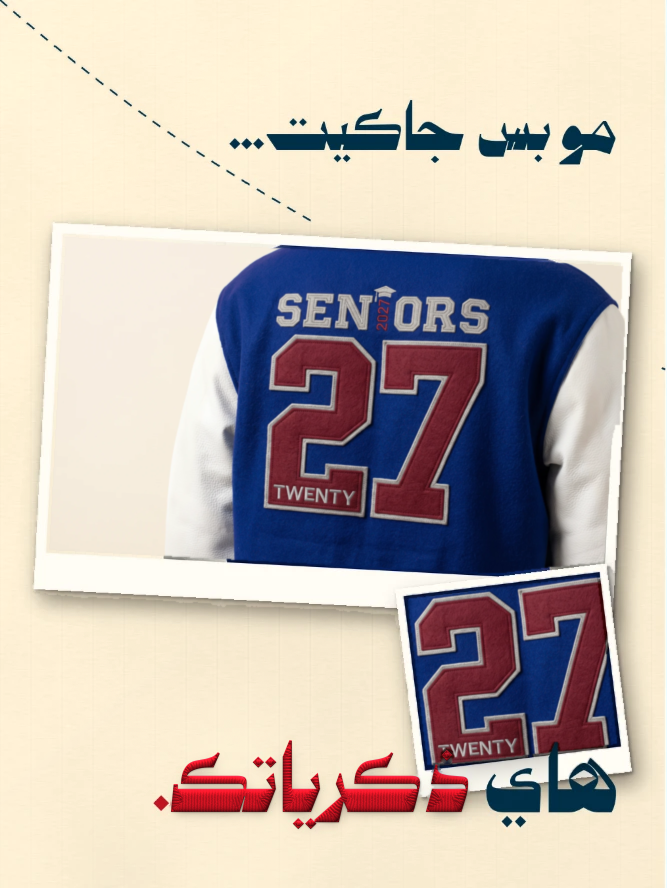
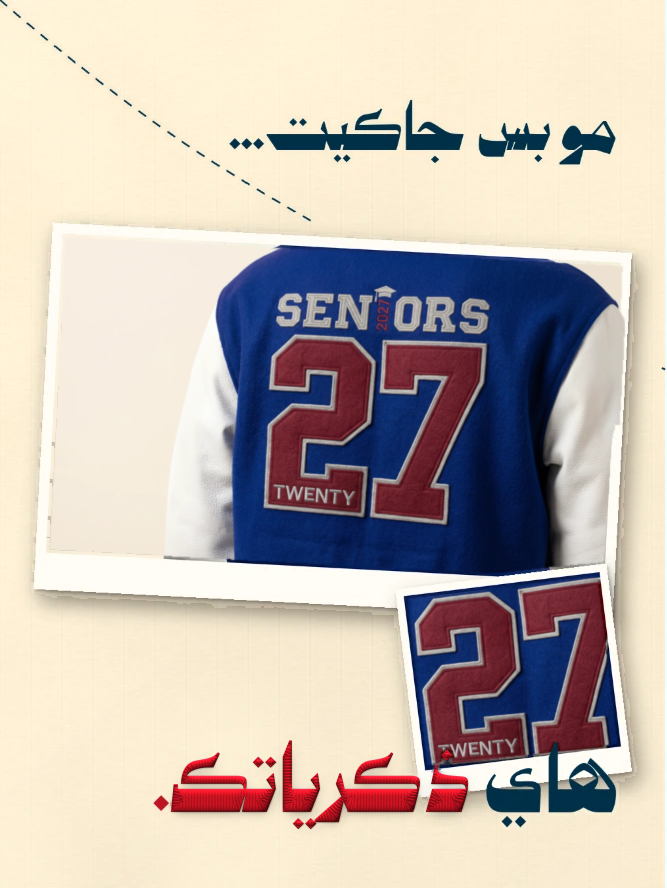
Protect all text by hue when adding shadows to posts 04-06
The text guard now keeps every pixel whose hue differs from the
background (navy/cream type, red embroidered words, dashed lines), so
shadows only change background lightness; red words and type are
pixel-identical to the previous posts.

Claude-Session: https://claude.ai/code/session_01E3nPX1GkYAjZLxYtQfcUiY

Changed region(s): [[0.8996, 0.3041, 0.9595, 0.7601], [0.6297, 0.7601, 0.9595, 0.9122]]

diff --git a/tools/replace_photos/enhance.py b/tools/replace_photos/enhance.py
@@ -40,11 +40,14 @@ for post in ("POST_04", "POST_05", "POST_06"):
     # include the frames' anti-aliased rim, and keep the mask edge soft (no stair-steps)
     prints = cv2.GaussianBlur(prints, (0, 0), 0.7)
     # text / red words / graphics = non-background pixels that are not part of a print: protected
-    text = ((bg < 0.5) & (prints < 0.5)).astype(np.uint8)
-    n2, lab2, st2, _ = cv2.connectedComponentsWithStats(text)
-    for i in range(1, n2):                     # existing soft shadows next to prints are background, not text
-        if st2[i, cv2.CC_STAT_AREA] > 4000: text[lab2 == i] = 0
-    text = cv2.GaussianBlur(cv2.dilate(text, np.ones((3, 3), np.uint8)).astype(np.float32), (0, 0), 0.6)
+    # text / red words / graphics: pixels whose HUE differs from the background (shadows only
+    # change lightness, so they stay background); every such pixel outside the prints is protected
+    ref = {"beige": (253, 239, 212), "navy": (0, 48, 72)}[STYLE[post]]
+    a = rgb.astype(np.float32); c1, c2 = a[..., 0] - a[..., 2], a[..., 1] - a[..., 2]
+    chroma = np.sqrt((c1 - (ref[0] - ref[2])) ** 2 + (c2 - (ref[1] - ref[2])) ** 2)
+    lumd = np.abs(a.mean(2) - sum(ref) / 3)
+    text = (((chroma > 14) | (lumd > 70)) & (prints < 0.5)).astype(np.uint8)
+    text = cv2.dilate(text, np.ones((5, 5), np.uint8)).astype(np.float32)
     cfg = SH[STYLE[post]]
     drop = cv2.GaussianBlur(shift(prints, DROP_OFF), (0, 0), DROP_SIG)
     contact = cv2.GaussianBlur(shift(prints, CON_OFF), (0, 0), CON_SIG)
